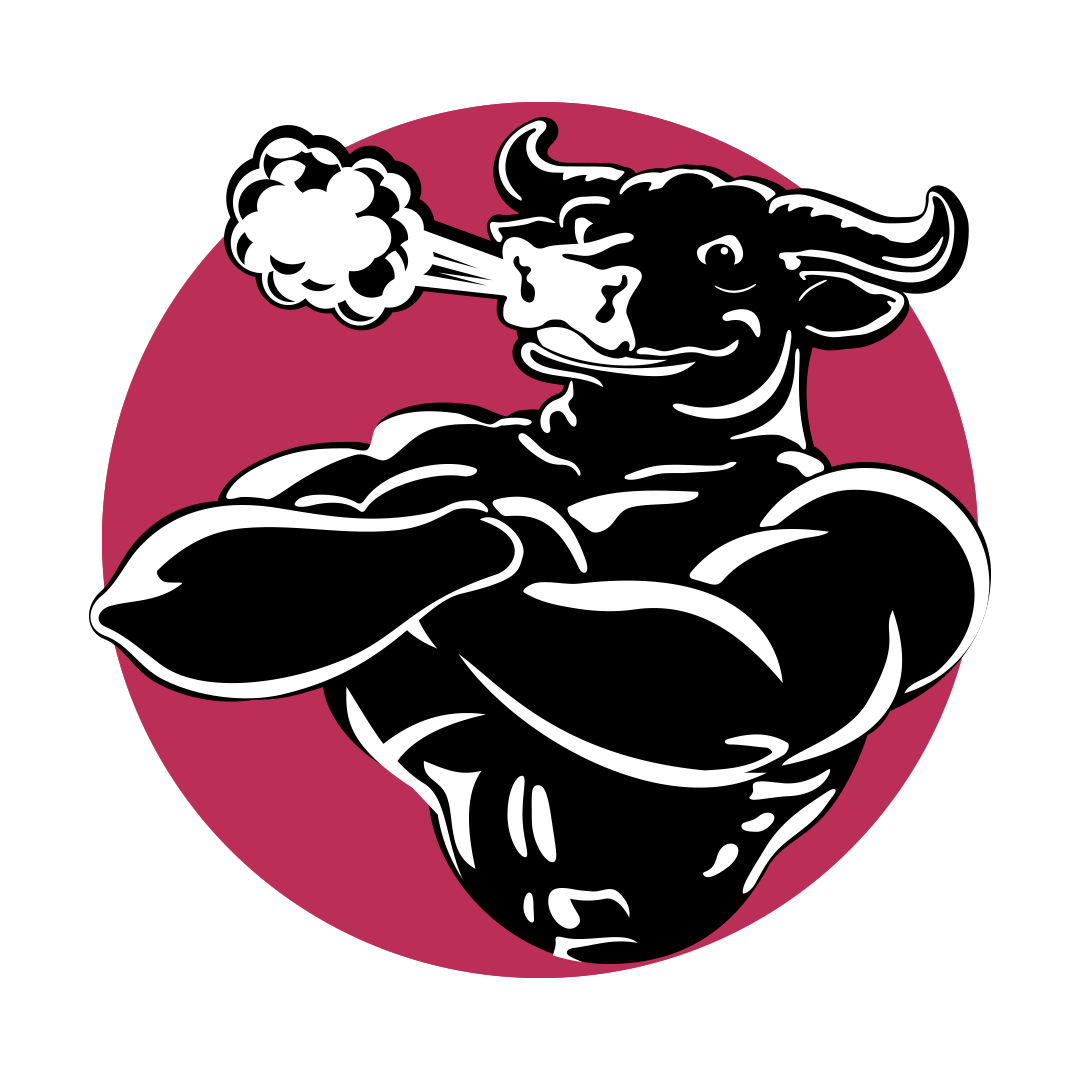
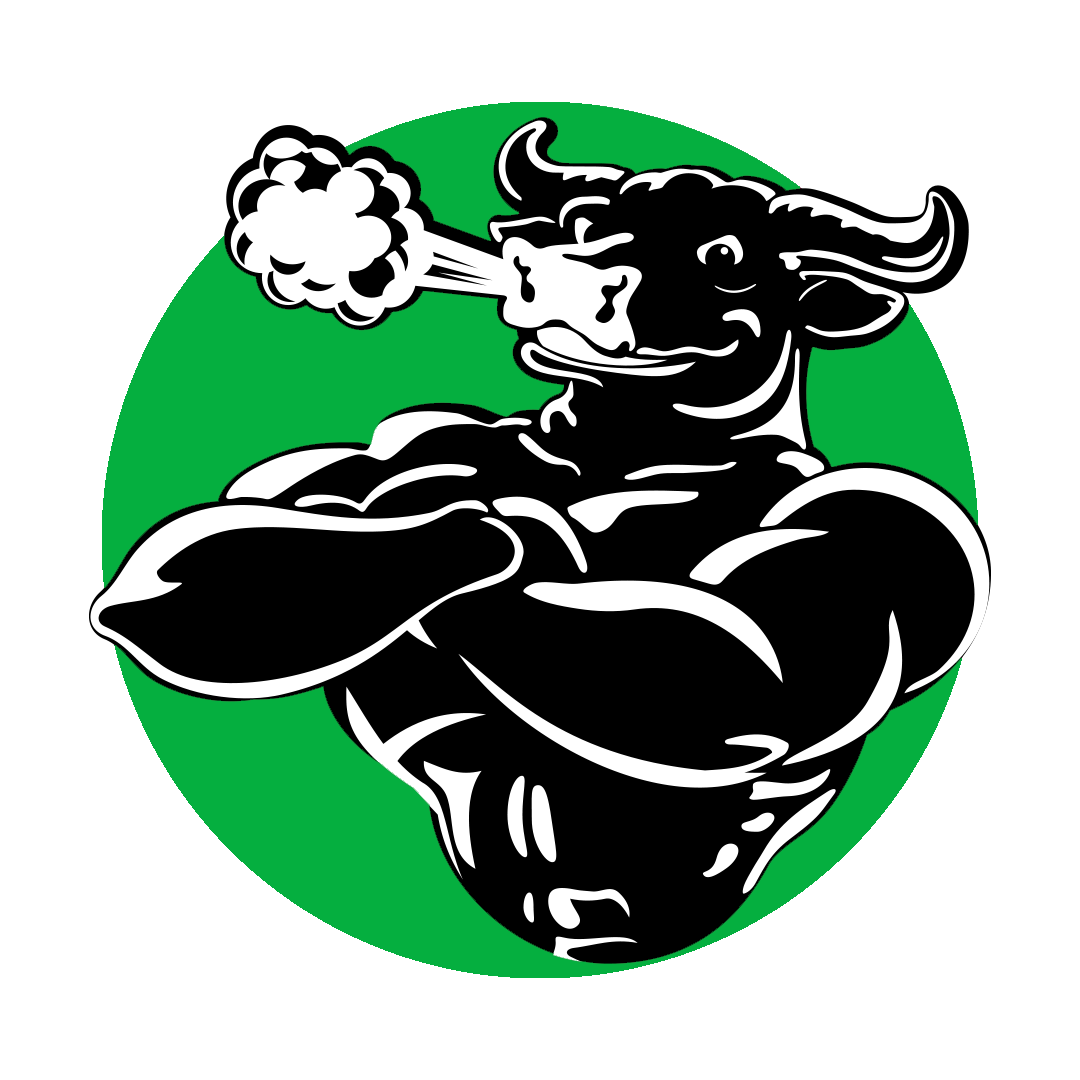
feat: change layout color scheme

diff --git a/src/pages/Home/index.jsx b/src/pages/Home/index.jsx
@@ -22,25 +22,25 @@ export function Home() {
   }
 
   return (
-    <div className="h-screen bg-red-700 text-white p-4 flex flex-col items-center space-y-6">
+    <div className="h-screen bg-green-700 text-white p-4 flex flex-col items-center space-y-6">
 
-      <header className="bg-red-700 container max-w-5xl p-4 flex justify-center">
+      <header className="bg-green-700 container max-w-5xl p-4 flex justify-center">
         <img src={logo} className="w-40" />        
       </header>
 
-      <div className="bg-red-700 container max-w-5xl flex flex-1 flex-col justify-center items-center md:flex-row space-y-6 md:space-y-0 md:space-x-6">
+      <div className="bg-green-700 container max-w-5xl flex flex-1 flex-col justify-center items-center md:flex-row space-y-6 md:space-y-0 md:space-x-6">
         <Message msg={msg} status="sucesso" />
       </div>
 
-      <div className="bg-red-700 container max-w-5xl p-4 flex flex-1 flex-col justify-center items-center md:flex-row space-y-6 md:space-y-0 md:space-x-6">
+      <div className="bg-green-700 container max-w-5xl p-4 flex flex-1 flex-col justify-center items-center md:flex-row space-y-6 md:space-y-0 md:space-x-6">
 
         <div className="flex md:flex-1 justify-center">
           <img src={imagemCapa} className="w-full max-w-md"/>
         </div>
 
-        <div className="bg-red-700 md:flex-1 flex flex-col space-y-6">
+        <div className="bg-green-700 md:flex-1 flex flex-col space-y-6">
           <h1 className="text-3xl text-center font-bold">99 é o palpite do meu Tévez!</h1>
-          <a href="/signup" className="bg-white text-center text-red-700 text-xl px-8 py-4 rounded-xl">
+          <a href="/signup" className="bg-white text-center text-green-700 text-xl px-8 py-4 rounded-xl">
             Criar minha conta
           </a>
           <a href="/login" className="text-white text-center border border-white text-xl px-8 py-4 rounded-xl">

diff --git a/src/components/CardJogo/index.jsx b/src/components/CardJogo/index.jsx
@@ -36,7 +36,7 @@ export const CardJogo = ({ gameId, homeTeam, awayTeam, gameTime, homeTeamScore, 
 
     return (
         <div className="rounded-xl border border-grey-300 p-4 text-center space-y-4 max-w-[100%]">
-            <span className="text-sm md:text-base text-gray-700 font-bold">{ gameTime }</span>
+            <span className="text-sm md:text-base text-grey-700 font-bold">{ gameTime }</span>
 
             <form className="flex space-x-4 p-2 justify-center items-center">
                 <span className="uppercase text-sm">{homeTeam}</span>
@@ -48,9 +48,9 @@ export const CardJogo = ({ gameId, homeTeam, awayTeam, gameTime, homeTeamScore, 
                     onChange={formik.handleChange}
                     onBlur={formik.handleSubmit}
                     disabled={disabled}
-                    className="self-stretch bg-red-300/[0.2] max-w-[15%] text-red-700 text-xl text-center"
+                    className="self-stretch bg-green-300/[0.2] max-w-[15%] text-green-700 text-xl text-center"
                 />
-                <span className="text-red-500 font-bold">X</span>
+                <span className="text-green-500 font-bold">X</span>
                 <input
                     type="number"
                     name="awayTeamScore"
@@ -58,7 +58,7 @@ export const CardJogo = ({ gameId, homeTeam, awayTeam, gameTime, homeTeamScore, 
                     onChange={formik.handleChange}
                     onBlur={formik.handleSubmit}
                     disabled={disabled}
-                    className="self-stretch bg-red-300/[0.2] max-w-[15%] text-red-700 text-xl text-center"
+                    className="self-stretch bg-green-300/[0.2] max-w-[15%] text-green-700 text-xl text-center"
                 />
                 <img src={`src/assets/bandeiras/${awayTeam}.png`} alt="" className="max-w-[15%]" />
                 <span className="uppercase text-sm">{awayTeam}</span>

diff --git a/src/pages/Profile/index.jsx b/src/pages/Profile/index.jsx
@@ -62,7 +62,7 @@ export const Profile = () => {
     return (
         <>
 
-            <header className="bg-red-500 p-4 text-white">            
+            <header className="bg-green-500 p-4 text-white">            
                 <div className="container max-w-3xl flex justify-between">
                     <img src={logo} className="w-28 md:w-40" />
                     <div className="p-2 cursor-pointer" onClick={logout}>
@@ -72,7 +72,7 @@ export const Profile = () => {
             </header>
 
             <main className="space-y-6">
-                <section id="header" className="bg-red-500 text-white">
+                <section id="header" className="bg-green-500 text-white">
                     <div className="container max-w-3xl space-y-2 p-4">
                         <a href="/dashboard">
                             <Icon name="back" className="w-10" />
@@ -84,7 +84,7 @@ export const Profile = () => {
 
                 <section id="content" className="container max-w-3xl p-4 space-y-4">
 
-                    <h2 className="text-xl text-red-500 font-bold">Seus palpites</h2>
+                    <h2 className="text-xl text-green-500 font-bold">Seus palpites</h2>
 
                     <DateSelect currentDate={currentDate} onChange={setCurrentDate} />
 

diff --git a/src/pages/Signup/index.jsx b/src/pages/Signup/index.jsx
@@ -51,7 +51,7 @@ export const Signup = () => {
 
     return (
         <div>
-            <header className="p-4 border-b border-red-300">
+            <header className="p-4 border-b border-green-300">
                 <div className="container flex justify-center max-w-xl">
                     <img src={logo} className="w-32 md:w-40" />
                 </div>
@@ -109,7 +109,7 @@ export const Signup = () => {
                     />
 
                     <button                        
-                        className="block w-full bg-red-500 text-center text-white text-base px-6 py-3 rounded-xl disabled:opacity-50"
+                        className="block w-full bg-green-500 text-center text-white text-base px-6 py-3 rounded-xl disabled:opacity-50"
                         type="submit"
                         disabled={!formik.isValid || formik.isSubmitting}                        
                     >

diff --git a/src/pages/Dashboard/index.jsx b/src/pages/Dashboard/index.jsx
@@ -61,7 +61,7 @@ export const Dashboard = () => {
     return (
         <>
 
-            <header className="bg-red-500 p-4 text-white">            
+            <header className="bg-green-500 p-4 text-white">            
                 <div className="container max-w-3xl flex justify-between">
                     <img src={logo} className="w-28 md:w-40" />
                     <a href="/profile">
@@ -71,7 +71,7 @@ export const Dashboard = () => {
             </header>
 
             <main className="space-y-6">
-                <section id="header" className="bg-red-500 text-white">
+                <section id="header" className="bg-green-500 text-white">
                     <div className="container max-w-3xl space-y-2 p-4">
                         <span>Olá, {auth.user.name}!</span>
                         <h3 className="text-2xl font-bold">Qual é o seu palpite?</h3>

diff --git a/src/pages/Login/index.jsx b/src/pages/Login/index.jsx
@@ -48,7 +48,7 @@ export const Login = () => {
 
     return (
         <div>
-            <header className="p-4 border-b border-red-300">
+            <header className="p-4 border-b border-green-300">
                 <div className="container flex justify-center max-w-xl">
                     <img src={logo} className="w-32 md:w-40" />
                 </div>
@@ -84,7 +84,7 @@ export const Login = () => {
                     />
 
                     <button
-                        className="block w-full bg-red-500 text-center text-white text-base px-6 py-3 rounded-xl disabled:opacity-50"
+                        className="block w-full bg-green-500 text-center text-white text-base px-6 py-3 rounded-xl disabled:opacity-50"
                         type="submit"
                         disabled={!formik.isValid || formik.isSubmitting}
                     >

diff --git a/src/components/DateSelect/index.jsx b/src/components/DateSelect/index.jsx
@@ -19,9 +19,9 @@ export const DateSelect = ({ currentDate, onChange }) => {
 
     return (
         <div className="p-4 flex space-x-4 justify-between">
-            <Icon name="arrowLeft" className="w-6 text-red-500" onClick={prevDay} />
+            <Icon name="arrowLeft" className="w-6 text-green-500" onClick={prevDay} />
             <span className="font-bold">{format(date, "d 'de' MMMM", {locale: ptBR})}</span>
-            <Icon name="arrowRight" className="w-6 text-red-500" onClick={nextDay} />
+            <Icon name="arrowRight" className="w-6 text-green-500" onClick={nextDay} />
         </div>
     )
 }
